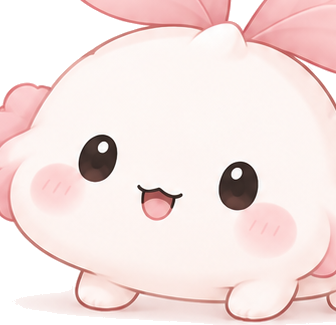
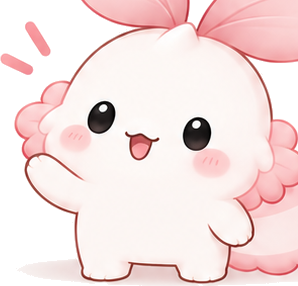
feat(app): 새 캐릭터 시트 적용 · 머리말 로고 · 분홍 채도 한 단계 낮춤
새 시트(표정 32종)에서 필요한 것을 다시 땄다. 앞 시트보다 포즈가
많고 결이 고르다.

  hello     손 흔드는 큰 인사 — 앞 것은 옆으로 누운 자세라 인사로 약했다
  ask       궁금(?)          챗봇 첫 화면 · 떠 있는 단추
  wait      잠자기           불러오는 중
  checking  돋보기(검색)      답 찾는 중 — 「확인해볼게요」보다 찾는 일에 맞다
  done      응원(♥)          답을 마친 뒤
  bye       인사             로그아웃
  alarm     종               **알림이 없을 때**  ← 새로 씀
  rest      기대기           목록이 비었을 때 (자리만 만들어 둠)
  guide     안내 팻말        (아직 안 쓴다)

  ⚠ 자를 때 아래를 band 끝 +2 로 조였다. 처음엔 넉넉히 잡았더니
    **라벨 글자가 그림에 딸려 왔다** — 「웃음」 「기대기」 같은 글자가
    캐릭터 발밑에 흐릿하게 붙어 있었다.

알림 화면의 빈 자리에 틸리를 세웠다. 회색 동그라미 하나만 있으면
「아무것도 없다」가 「고장 났다」로 읽힌다.

머리말 로고 — 오른쪽 끝에 작게

  제목 옆에 붙이면 제목과 겨루고 왼쪽은 뒤로가기 자리라, 남는 자리가
  거기뿐이다. right 를 쓰는 화면에서는 양보한다 — 한 자리에 둘을 밀어
  넣으면 둘 다 작아진다.

분홍 채도를 한 단계 내렸다

  「너무 핑크핑크해서 유치해 보인다」는 이야기에 맞춰, 색상은 그대로
  두고 **회색 쪽으로 당겼다.** 브랜드를 바꾼 것이 아니라 덜 외치게
  한 것이다.

  ⚠ **명도는 안 건드렸다.** --pink 는 흰 배경 대비 4.5:1 을 넘겨야
    본문 글자로 쓸 수 있는데(25곳에서 글자로 쓰인다) 연하게 만들면
    그 선을 넘는다. 외침을 줄이려면 채도를, 읽힘을 지키려면 명도를 —
    둘은 다른 손잡이다.

    고친 뒤 대비  --pink 4.66:1 · --blossom 위 잉크 11.56:1 ·
                 --blossom 위 초록 6.56:1

원본 시트는 docs/brand/character-sheet-v2.png 로 옮겼다.

diff --git a/view/src/styles/tokens.css b/view/src/styles/tokens.css
@@ -49,13 +49,22 @@
 
   /* ══ 색 ═══════════════════════════════════════════════════ */
 
-  /* 핑크 — 어두운 판에서는 한 단계씩 밝다. 어두운 바탕 위에서
-     밝은 판의 #A85C70 은 글자로 읽히지 않는다 */
-  --pink:    light-dark(#A85C70, #C58F9B);   /* Primary — 핵심 포인트 · 선택 */
-  --pink-2:  light-dark(#C98294, #D9A7B1);   /* Muted   — 버튼 · 강조 요소 */
-  --pink-3:  light-dark(#DDA8B5, #E6C6CD);   /* Soft    — 배지 · 아이콘 · 차트 */
-  --pink-bg: light-dark(#F1DDE2, #3A2830);   /* 강조 배경 · 알림 배경 */
-  --blush:   light-dark(#F8EFF1, #2E242B);   /* 섹션 배경 — 어두운 값은
+  /* 핑크 — 어두운 판에서는 한 단계씩 밝다.
+   *
+   * ⚠ **채도를 한 단계 내렸다** (2026-09-17). 분홍이 너무 선명해서
+   *   화면이 유치해 보인다는 이야기가 있었다. 색상(분홍)은 그대로 두고
+   *   회색 쪽으로 당겼다 — 브랜드를 바꾼 것이 아니라 **덜 외치게** 한
+   *   것이다.
+   *
+   *   명도는 건드리지 않았다. --pink 는 흰 배경 대비 4.5:1 을 넘겨야
+   *   본문 글자로 쓸 수 있는데, 연하게 만들면 그 선을 넘는다.
+   *   외침을 줄이려면 채도를, 읽힘을 지키려면 명도를 — 둘은 다른
+   *   손잡이다. */
+  --pink:    light-dark(#9E6470, #BE949C);   /* Primary — 핵심 포인트 · 선택 */
+  --pink-2:  light-dark(#BB8B96, #CDA8B0);   /* Muted   — 버튼 · 강조 요소 */
+  --pink-3:  light-dark(#D3B2B8, #DCC6CB);   /* Soft    — 배지 · 아이콘 · 차트 */
+  --pink-bg: light-dark(#EFE4E5, #342A2D);   /* 강조 배경 · 알림 배경 */
+  --blush:   light-dark(#F7F2F1, #2A2427);   /* 섹션 배경 — 어두운 값은
                                                 Pink Tint 를 Surface 쪽으로
                                                 60% 당긴 것이다 */
 
@@ -85,7 +94,7 @@
   --green-ink:  light-dark(#FFFFFF, #06251A);  /* 초록 위에 얹는 글자 */
 
   /* 리본 분홍 — **면에만** 쓴다. 글자로 쓰지 말 것(위 ⚠ 참고) */
-  --blossom: light-dark(#E7B5BD, #4A2F36);
+  --blossom: light-dark(#EBD3D5, #433437);
 
   /* 모래빛 — 구분선 · 가라앉은 면. 회색 선보다 따뜻하다 */
   --sand: light-dark(#D8D1C4, #332F2A);

diff --git a/view/src/lib/Tilly.jsx b/view/src/lib/Tilly.jsx
@@ -18,6 +18,9 @@ import { useState } from "react";
  *   public/tilly/done.png       도움이 되었길 바라요!   답을 마친 뒤
  *   public/tilly/bye.png        또 만나요!             로그아웃
  *   public/tilly/face.png       얼굴만                 떠 있는 상담 단추
+ *   public/tilly/alarm.png      알람                   알림이 없을 때
+ *   public/tilly/rest.png       기대기                 목록이 비었을 때
+ *   public/tilly/guide.png      안내 팻말              (아직 안 쓴다)
  *
  * 투명 PNG 로, 화면 배율이 다양하니 **찍힐 크기의 3배**로 주면 안전하다
  * (홈 머리의 틸리가 56px 이면 168px 짜리). WebP 도 된다 — 확장자만
@@ -50,6 +53,9 @@ const SAY = {
   done: "틸리가 웃고 있어요",
   bye: "틸리가 손을 흔들고 있어요",
   face: "틸리",
+  alarm: "틸리가 종을 들고 있어요",
+  rest: "틸리가 쉬고 있어요",
+  guide: "틸리가 안내 팻말을 들고 있어요",
 };
 
 /** 틸리 한 마리.

diff --git a/view/src/lib/Screen.jsx b/view/src/lib/Screen.jsx
@@ -1,4 +1,5 @@
 import { useLocation, useNavigate } from "react-router-dom";
+import Logo from "./Logo";
 
 /* 화면 하나의 껍데기 — 머리말 · 로딩 · 오류 · 본문.
  *
@@ -32,7 +33,12 @@ export function Head({ title, back = true, up = "/", right }) {
         </button>
       )}
       <h2>{title}</h2>
-      {right && <div className="right">{right}</div>}
+      {/* 오른쪽 끝에 작은 로고. 제목 옆에 붙이면 제목과 겨루고, 왼쪽은
+          뒤로가기 자리다 — 남는 자리는 여기뿐이다.
+          right 가 있는 화면에서는 양보한다. 한 자리에 둘을 밀어 넣으면
+          둘 다 작아진다 */}
+      {right ? <div className="right">{right}</div>
+             : <Logo size="sm" />}
     </div>
   );
 }

diff --git a/view/src/screens/Notis.jsx b/view/src/screens/Notis.jsx
@@ -3,6 +3,7 @@ import { api } from "../api";
 import { useApi } from "../lib/useApi";
 import { Body, Head } from "../lib/Screen";
 import { fmtStamp } from "../lib/when";
+import Tilly from "../lib/Tilly";
 
 /* 11 · 알림
  *
@@ -49,7 +50,9 @@ function Inner({ items }) {
   if (!items?.length) {
     return (
       <div className="empty">
-        <i className="ic" aria-hidden="true">◍</i>
+        {/* 빈 화면에 회색 동그라미 하나를 두는 것보다 틸리가 낫다.
+            «아무것도 없다»가 «고장 났다»로 읽히지 않는다 */}
+        <Tilly mood="alarm" size="md" alt="" />
         <p>받은 알림이 없습니다.</p>
       </div>
     );
